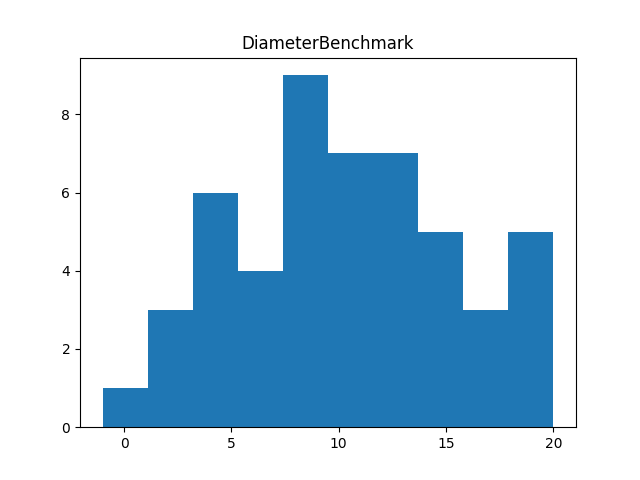
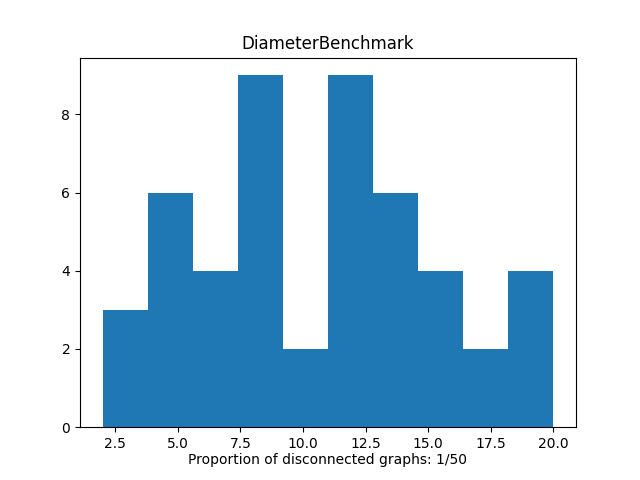
Add proportion of disconnected graphs to histograms

diff --git a/src/histogram_visualizations.py b/src/histogram_visualizations.py
@@ -3,18 +3,23 @@ import json
 import matplotlib.pyplot as plt
 
 def main():
-    # ["BG", "TRACT", "COUSUB", "COUNTY"]
-    for map_type in ["BLOCK"]:
+    for map_type in  ["BLOCK", "BG", "TRACT", "COUSUB", "COUNTY"]:
         # Read the JSON file
         with open(f"do_not_commit/{map_type}_main_stats.json") as f:
             data = json.load(f)
 
         # key = benchmark name, value = list of values from all states, one value per state
-        for key, value in data.items():
-            # Create a histogram for each list value
-            plt.hist(value)
-            plt.title(key)
-            plt.savefig(f"../data/histograms/{key}_{map_type}_realmaps.png")
+        for benchmark_name, all_values in data.items():
+            if benchmark_name in ["RadiusBenchmark", "DiameterBenchmark"]:
+                values = [x for x in all_values if x != -1] # -1 encodes disconnected graph
+                num_invalid = len(all_values) - len(values) # e.g. for radius and diameter, some maps are disconnected
+                plt.hist(values)
+                if num_invalid > 0:
+                    plt.text(0.5, -0.1, f"Proportion of disconnected graphs: {num_invalid}/{len(all_values)}", transform=plt.gca().transAxes, ha='center')
+            else:
+                plt.hist(all_values)
+            plt.title(benchmark_name)
+            plt.savefig(f"../data/histograms/{benchmark_name}_{map_type}_realmaps.png")
             plt.close()
 
 if __name__ == "__main__":

diff --git a/src/run_benchmarks.py b/src/run_benchmarks.py
@@ -3,7 +3,7 @@ from pathlib import Path
 from map_analyzer.benchmark_framework.benchmark_orchestrator import (
     BenchmarkOrchestrator,
 )
-from map_analyzer.benchmarks import maximum_degree, radius, number_of_leaves, diameter, assortativity
+from map_analyzer.benchmarks import maximum_degree, radius, number_of_leaves, diameter, assortativity, average_degree, clustering_coefficient
 from map_analyzer.models import real_life_maps, triangle_deletion
 
 
@@ -15,17 +15,19 @@ SEED = 238  # INFO: Seed to ensure reproducible results
 
 def main():
     models_to_test = [
-        real_life_maps.RealLifeMaps(Path("../data/maps")),
-        triangle_deletion.TriangleDeletionModel(probability=0.1, num_pts=100),
+        # real_life_maps.RealLifeMaps(Path("../data/maps")),
+        triangle_deletion.TriangleDeletionModel(probability=0.1, num_pts=1000),
         # TODO: Add more models
     ]
+
     benchmarks_to_run = [
         maximum_degree.MaximumDegreeBenchmark(),
         radius.RadiusBenchmark(),
         number_of_leaves.NumberOfLeavesBenchmark(),
         diameter.DiameterBenchmark(),
         assortativity.AssortativityBenchmark(),
-        # TODO: Add more statistics from Linear
+        average_degree.AverageDegreeBenchmark(),
+        clustering_coefficient.ClusteringCoefficientBenchmark(),
     ]
 
     orchestrator = BenchmarkOrchestrator(benchmarks_to_run)

diff --git a/src/run_map_analysis.py b/src/run_map_analysis.py
@@ -13,7 +13,7 @@ def main():
     # state_names_to_load = ["WA", "MA"] # if you want to load specific states only
     state_names_to_load = list(state_ids.keys()) # If you want to load all
     # map types are ["BLOCK", "BG", "TRACT", "COUSUB", "COUNTY"]
-    map_type = "BLOCK"
+    map_type = "TRACT"
     loaded_maps = [
         load_map(state_code, map_type, Path("../data/maps"))
         for state_code in state_names_to_load
@@ -22,9 +22,9 @@ def main():
 
     benchmarks_to_run = [
         maximum_degree.MaximumDegreeBenchmark(),
-        # radius.RadiusBenchmark(),
+        radius.RadiusBenchmark(),
         number_of_leaves.NumberOfLeavesBenchmark(),
-        # diameter.DiameterBenchmark(),
+        diameter.DiameterBenchmark(),
         assortativity.AssortativityBenchmark(),
         average_degree.AverageDegreeBenchmark(),
         clustering_coefficient.ClusteringCoefficientBenchmark(),

diff --git a/src/map_analyzer/models/triangle_deletion.py b/src/map_analyzer/models/triangle_deletion.py
@@ -20,9 +20,6 @@ class TriangleDeletionModel(GraphGeneratingModel):
 
 
     def generate_graph(self, seed=None) -> Graph:
-        graph = nx.Graph()
-        graph.add_node(1)
-        
         # Create Delaunay Configuration
         points = np.random.rand(self.n, 2)
         tri = Delaunay(points)
